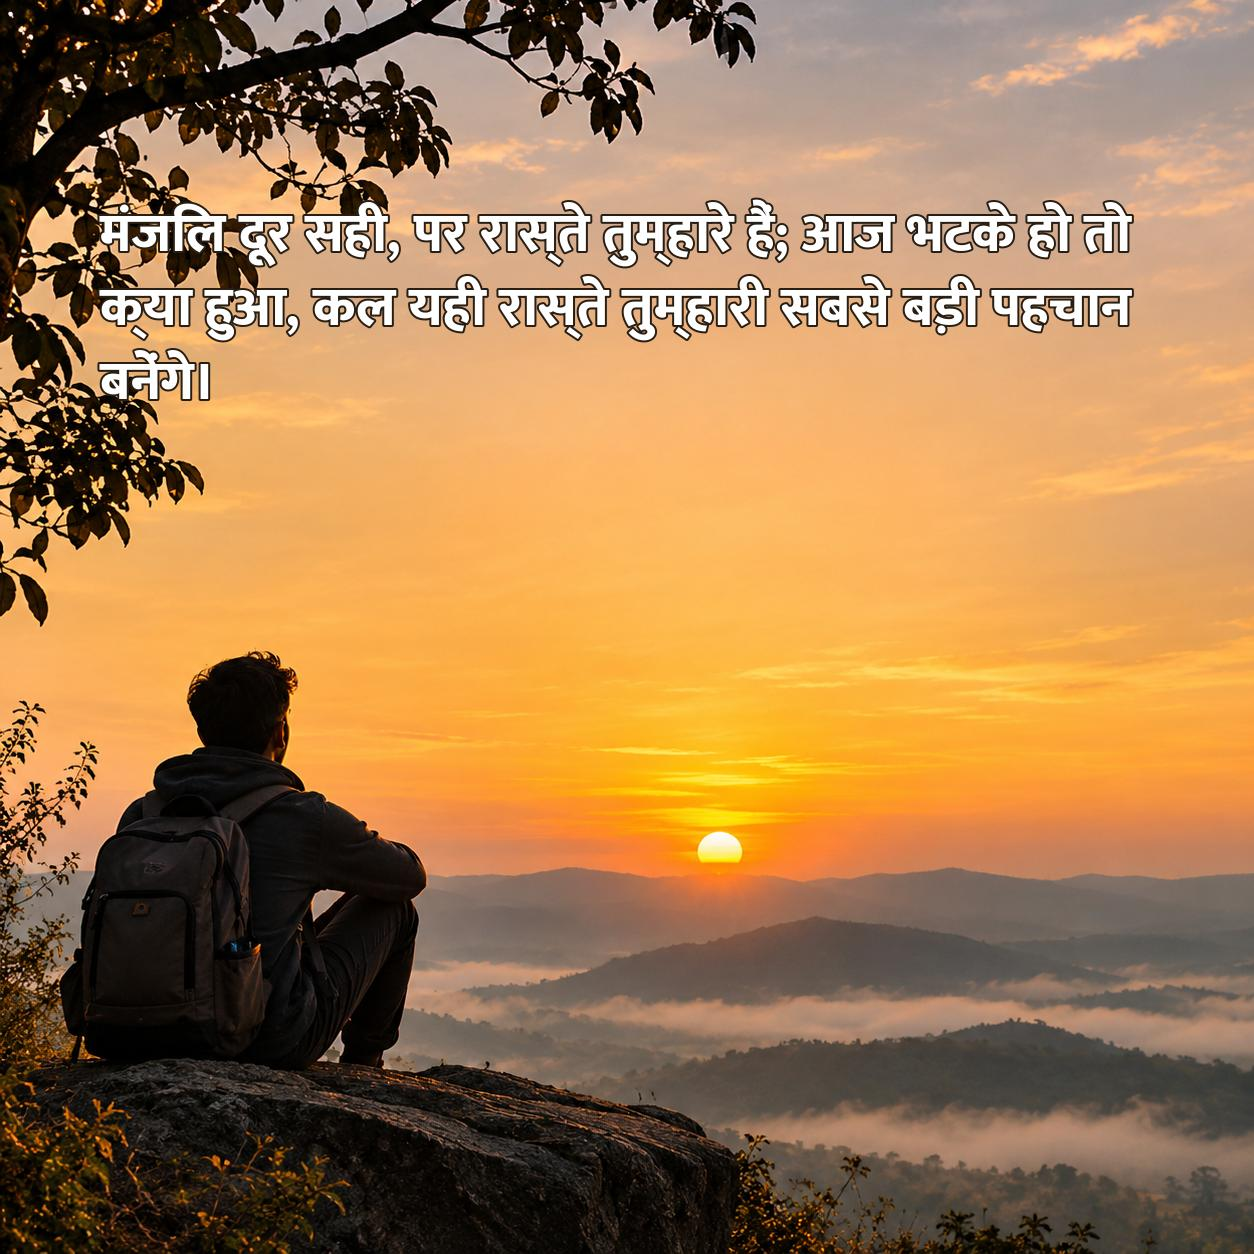
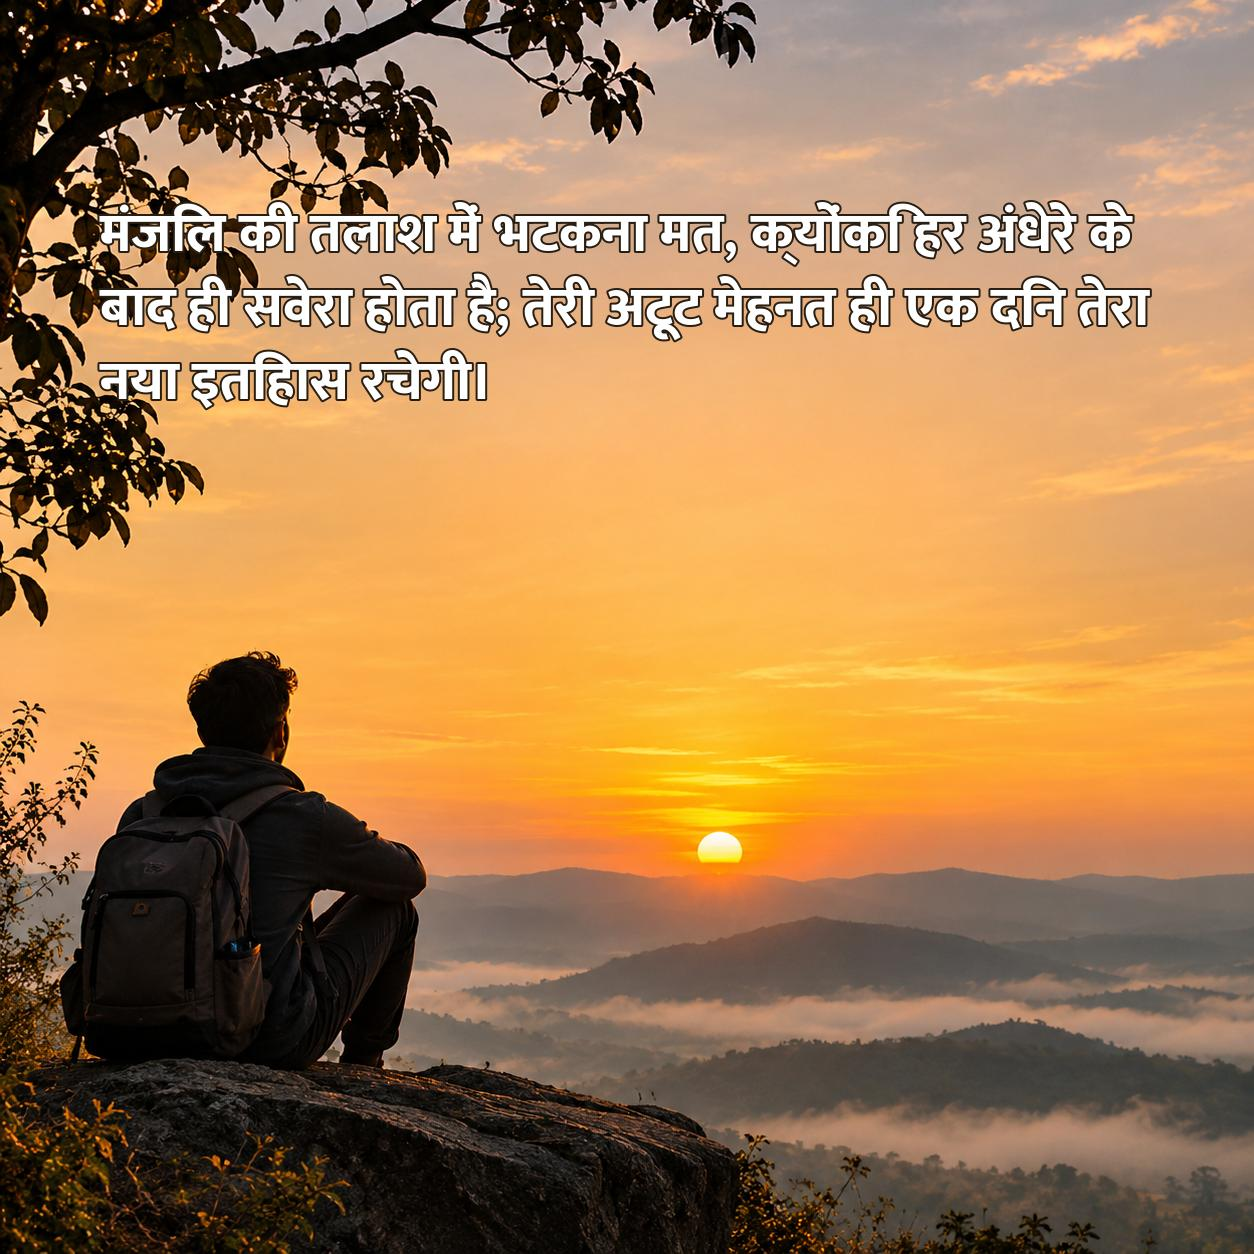
third commit

Changed region(s): [[0.0622, 0.1555, 0.933, 0.3421]]

diff --git a/src/post_insta_agent/instagram_connection.py b/src/post_insta_agent/instagram_connection.py
@@ -1,0 +1,53 @@
+import os
+import requests
+from dotenv import load_dotenv
+
+load_dotenv()
+
+ACCESS_TOKEN = os.getenv("INSTAGRAM_ACCESS_TOKEN")
+INSTAGRAM_USER_ID = os.getenv("INSTAGRAM_USER_ID")
+
+
+BASE_URL = "https://graph.instagram.com/v25.0"
+
+
+def publish_image(image_url: str, caption: str = "#motivation") -> dict:
+    if not ACCESS_TOKEN or not INSTAGRAM_USER_ID:
+        raise ValueError("Instagram credentials missing in .env")
+
+    # Step 1: Create media container
+    response = requests.post(
+        f"{BASE_URL}/{INSTAGRAM_USER_ID}/media",
+        data={
+            "image_url": image_url,
+            "caption": caption,
+            "access_token": ACCESS_TOKEN,
+        },
+        timeout=60,
+    )
+
+    print("Create media status:", response.status_code)
+    print("Create media response:", response.text)
+    response.raise_for_status()
+
+    container_id = response.json()["id"]
+    print("Container created:", container_id)
+
+    # Step 2: Publish media
+    response = requests.post(
+        f"{BASE_URL}/{INSTAGRAM_USER_ID}/media_publish",
+        data={
+            "creation_id": container_id,
+            "access_token": ACCESS_TOKEN,
+        },
+        timeout=60,
+    )
+
+    print("Publish status:", response.status_code)
+    print("Publish response:", response.text)
+    response.raise_for_status()
+
+    result = response.json()
+    print("Instagram post published! Media ID:", result["id"])
+
+    return result

diff --git a/src/post_insta_agent/main.py b/src/post_insta_agent/main.py
@@ -1,4 +1,30 @@
-import text_to_image
 from model import get_google_output
-quote_text=get_google_output("quote of upse")
-text_to_image.text_to_image(quote_text)
+from text_to_image import text_to_image
+from instagram_connection import publish_image
+from cloudinary_upload import upload_image
+
+
+def main():
+    # Step 1: Generate quote
+    quote = get_google_output("Motivation for UPSC aspirants")
+    print("Generated quote:", quote)
+
+    # Step 2: Create image with quote
+    image_path = text_to_image(quote)
+    print("Image saved:", image_path)
+
+    # Step 3: Upload image to Cloudinary
+    image_url = upload_image(str(image_path))
+    print("Uploaded image URL:", image_url)
+
+    # Step 4: Publish on Instagram
+    result = publish_image(
+        image_url=image_url,
+        caption=f"{quote}\n\n#Motivation #UPSC #Success"
+    )
+
+    print("Instagram publishing result:", result)
+
+
+if __name__ == "__main__":
+    main()

diff --git a/src/post_insta_agent/cloudinary_upload.py b/src/post_insta_agent/cloudinary_upload.py
@@ -1,0 +1,22 @@
+import os
+import cloudinary
+import cloudinary.uploader
+from dotenv import load_dotenv
+
+load_dotenv()
+
+cloudinary.config(
+    cloud_name=os.getenv("CLOUDINARY_CLOUD_NAME"),
+    api_key=os.getenv("CLOUDINARY_API_KEY"),
+    api_secret=os.getenv("CLOUDINARY_API_SECRET"),
+)
+
+
+def upload_image(image_path: str) -> str:
+    result = cloudinary.uploader.upload(image_path, resource_type="image")
+    image_url = result["secure_url"]
+
+    print("Image uploaded successfully!")
+    print("Image URL:", image_url)
+
+    return image_url

diff --git a/src/post_insta_agent/tempCodeRunnerFile.py b/src/post_insta_agent/tempCodeRunnerFile.py
@@ -1,1 +1,4 @@
-OutputParser()
+
+
+if __name__ == "__main__":
+    main()
